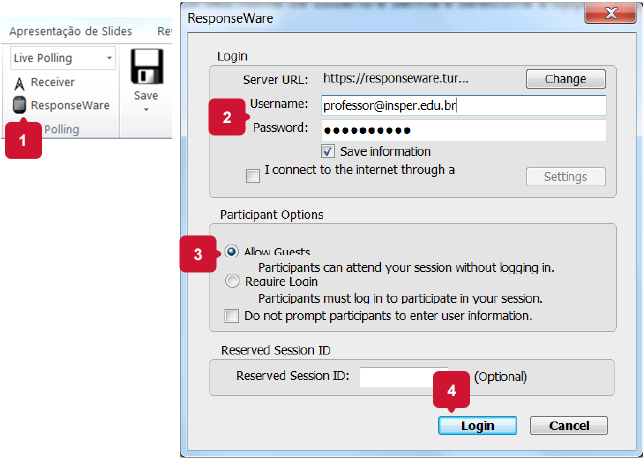
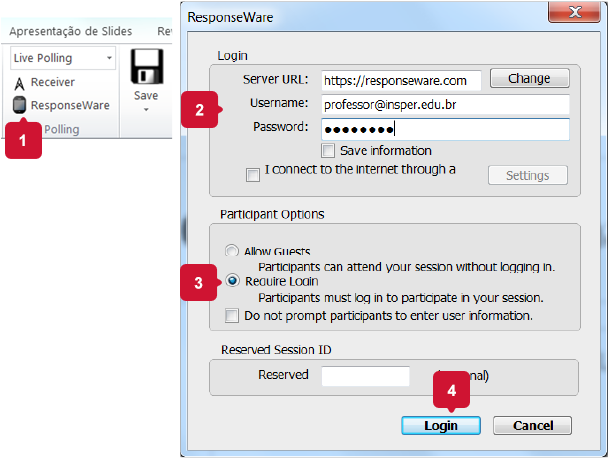
updates Clickers

Changed region(s): [[0.0, 0.0, 1.0, 1.0]]

diff --git a/html/Clickers/promover-votacao-em-sala/index.html b/html/Clickers/promover-votacao-em-sala/index.html
@@ -410,16 +410,18 @@
                         <h2 id="preparar-apresentacao-votadores-mobile">Preparar apresentação para votadores eletrônicos mobile</h2>
                         <ol>
                             <li>Chegue na sala de aula com no mínimo 15 minutos de antecedência.</li>
-                            <li>No computador da sala, <a href="#durante-aula">abra o PowerPoint com o plug-in do TurningPoint</a> e, em seguida, localize a apresentação de slides preparada previamente.</li>
-                            <li>Conecte-se ao <a href="http://www.rwpoll.com" target="_blank">ResponseWare</a>.</li>
+                            <li>Peça para os alunos fazerem o pré-cadastro no sistema pelo seguinte link: <a href="https://account.turningtechnologies.com/account/" target="_blank">https://account.turningtechnologies.com/account/</a></li>
+                            <li>No computador da sala, <a href="durante-aula">abra o PowerPoint com o plug-in do TurningPoint</a> e, em seguida, localize a <a href="#salvar-continuar-sessao">apresentação de slides preparada previamente</a>.</li>
+                            <li>Conecte-se ao ResponseWare.</li>
                             <li>Anote na lousa o ID da sessão fornecido pelo software.</li>
                         </ol>
                         <div class="imageContainer row">
                             <img src="../../img/Clickers/promover-votacao-em-sala/preparacao-sala/step2.png" alt="" class="imgLeft">
                             <div class="boxDestaque" id="ClickePrepararAp2">
                                 <ol type="decimal">
+                                    <li><strong>Server URL</strong>: troque para <a href="https://responseware.turningtechnologies.com/responseware/" target="_blank">https://responseware.turningtechnologies.com/responseware/</a></li>
                                     <li><strong>Username e password: </strong>forneça os dados de acesso que você recebeu anteriormente. Caso não tenha recebido, envie um e-mail para dea@insper.edu.br.</li>
-                                    <li><strong>Allow Guest: </strong>ao selecionar essa opção você permite que os próprios alunos insiram seus dados (nome e sobrenome) ao acessa à votação.</li>
+                                    <li><strong>Participant Options: </strong>selecione a opção “Require Login”. Com isso, os alunos acessarão por meio do login e senha feitos no pré-cadastro.</li>
                                 </ol>
                             </div>
                         </div>

diff --git a/html/Clickers/sobre-a-ferramenta/funcionamento-votadores-mobile/index.html b/html/Clickers/sobre-a-ferramenta/funcionamento-votadores-mobile/index.html
@@ -362,7 +362,7 @@
                         <div class="imageContainer row">
                             <img src="../../../img/Clickers/sobre-a-ferramenta/funcionamento-dos-votadores-eletronicos/step2.png" alt="" class="">
                             <div class="boxDestaque" id="ClickerSobreFerramenta5">
-                                <p>Logar no <a href="http://www.rwpoll.com" target="_blank">Responseware</a> e forneceder o ID da sessão para os alunos.</p>
+                                <p>Logar no <a href="http://www.rwpoll.com" target="_blank">Responseware</a> e forneceder o ID da sessão. Os alunos farão login com os dados que eles cadastraram previamente no sistema.</p>
                             </div>
                             <div class="boxDestaque" id="ClickerSobreFerramenta6">
                                 <p>Durante a apresentação de slides, lançar perguntas à turma.</p>
